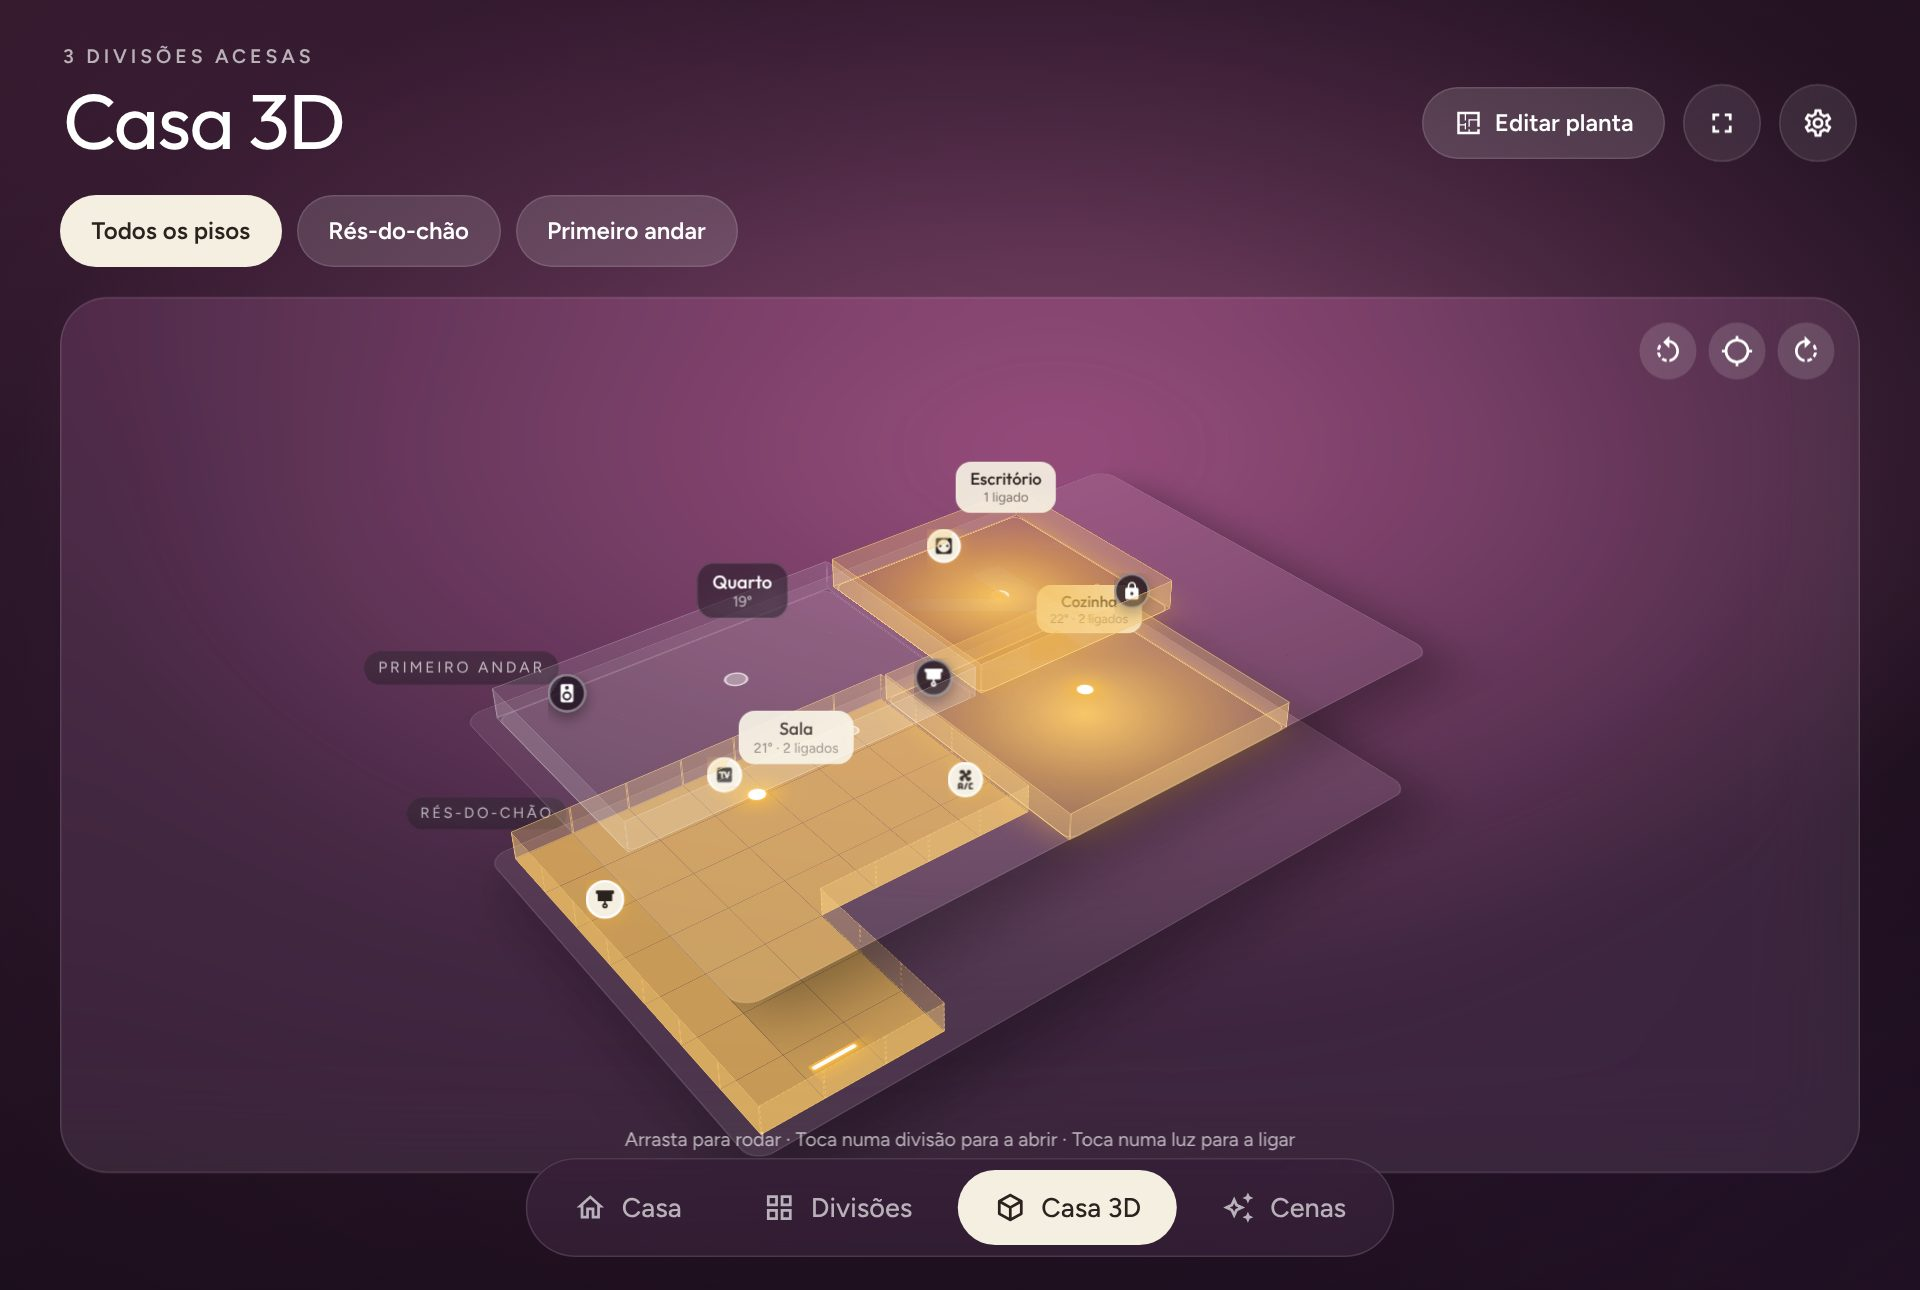
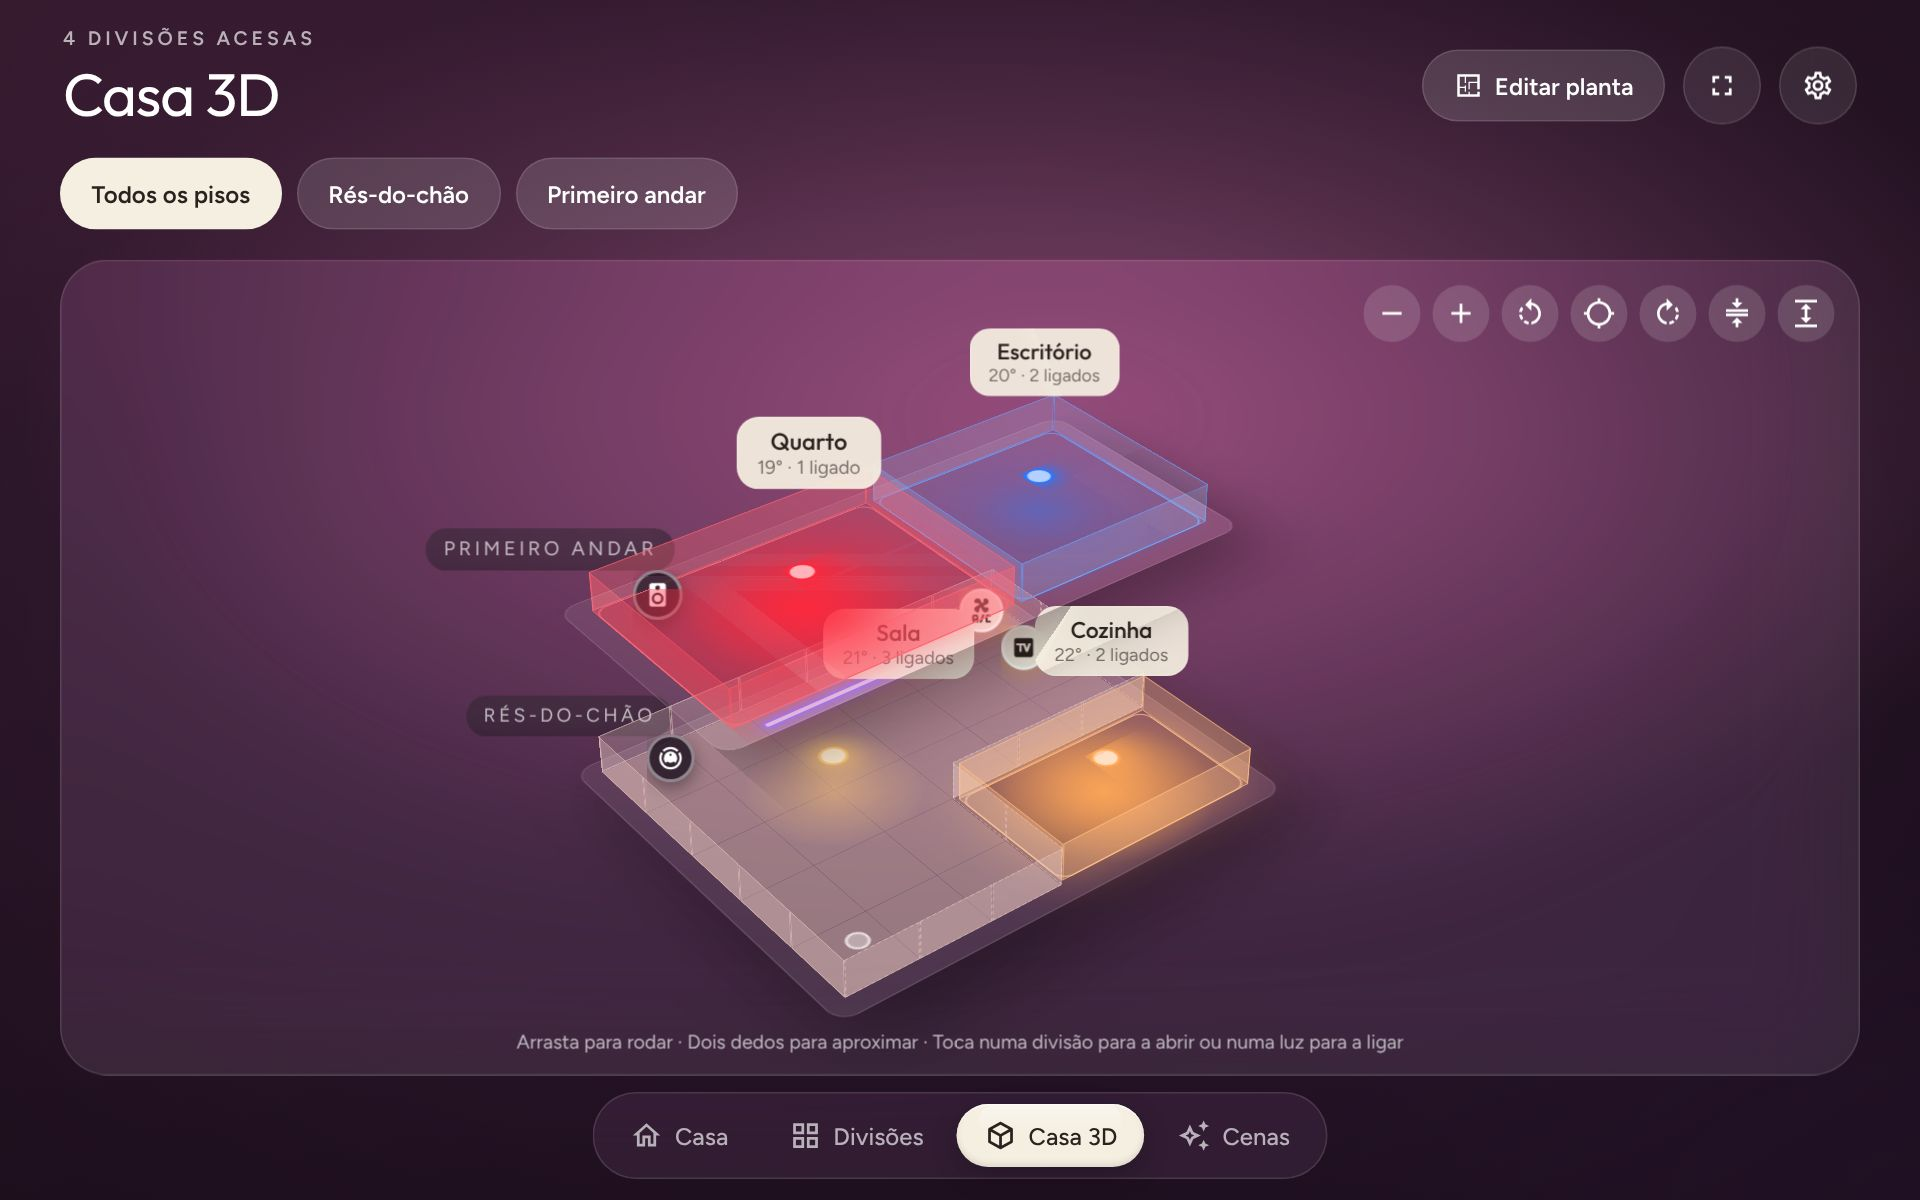
README: screenshots of the current panel; two small layout fixes (0.21.1)
- All README screenshots retaken with a sample home on a landscape
  tablet-sized screen (1280x800) and a phone: the Big clock and Two
  columns home (vivid Amber), a light background, the new room screen,
  the forecast with IPMA warnings, the Climate screen, the air
  conditioner and vacuum cards, the 3D Home, the floor-plan editor, edit
  mode, settings (backgrounds, entities, this device), the list layout in
  English and the screensaver. Both READMEs list them.
- Fixes found while taking them: the weather card's warning strip no
  longer overflows on phones; the room screen in the List layout shows
  its cards as rows again.

Claude-Session: https://claude.ai/code/session_01Ghy49Jsh1qvqB3jsfQ9BGY

diff --git a/custom_components/pine3_view/frontend/styles.js b/custom_components/pine3_view/frontend/styles.js
@@ -498,6 +498,10 @@ a.pill{color:inherit;text-decoration:none}
   .rgrid .tile .ic{width:40px;height:40px}.rgrid .tile .pw{width:44px;height:44px}.rgrid .tile .nm{font-size:17px}
   .rhead .pill{height:42px}
 }
+/* list layout: the room's cards as rows */
+.as-list .tiles.rgrid{grid-template-columns:repeat(auto-fill,minmax(300px,1fr));grid-auto-rows:auto;gap:10px}
+.as-list .rgrid .tile{min-height:0;border-radius:20px;padding:12px 16px}
+.as-list .rgrid .tile .nm{margin-top:0;padding-top:0}.as-list .rgrid .tile .tx{margin-top:0}
 @media (max-width:720px){
   .rhead{grid-template-columns:1fr auto;gap:12px;padding-top:12px}.rstat{grid-column:1/-1;grid-row:2;border:0;padding:0}
   .rhead .right .pill{display:none}.tiles.rgrid{grid-template-columns:repeat(2,minmax(0,1fr));gap:12px}
@@ -565,6 +569,7 @@ a.pill{color:inherit;text-decoration:none}
 .wxc.tall .wx-alert{padding:6px 10px}.wxc.tall{gap:10px}.wxc.tall .wx-hrs{padding:8px 0}
 .lv-yellow{--lv:#ffcc00}.lv-orange{--lv:#ff9500}.lv-red{--lv:#ff3b30}
 .wxc.wide.has-alert{flex-wrap:wrap;row-gap:10px}.wxc.wide .wx-alert{flex-basis:100%}
+.wx-alert{min-width:0;max-width:100%}.wxc.wide .wx-alert{order:5}
 .wx-al{--mdc-icon-size:18px;color:var(--lv);margin-left:2px}
 .wx-ok{display:flex;align-items:center;gap:8px;margin-top:14px;color:var(--muted);font-size:14px}.wx-ok ha-icon{--mdc-icon-size:18px;color:#30d158}
 .wx-chips{display:flex;gap:10px;flex-wrap:wrap;margin-top:12px}

diff --git a/custom_components/pine3_view/const.py b/custom_components/pine3_view/const.py
@@ -7,4 +7,4 @@ PANEL_ICON = "mdi:home-variant"
 PANEL_ELEMENT = "pine3-view-panel"
 STATIC_URL = "/pine3_view_static"
 EVENT_UPDATED = "pine3_view_updated"
-VERSION = "0.21.0"
+VERSION = "0.21.1"

diff --git a/README.pt.md b/README.pt.md
@@ -13,21 +13,25 @@ próprio desenhas. Código original, feito de raiz.
 
 ## Capturas de ecrã
 
-| Início | Casa 3D |
+| Início (Relógio grande) | Início (Duas colunas, fundo vivo Âmbar) |
 |---|---|
-| ![Início com relógio, tempo, estado da casa, cenas e divisões](docs/screenshots/home.jpg) | ![Casa 3D com dois pisos, uma sala em L e dispositivos no sítio](docs/screenshots/house-3d.jpg) |
-| **Divisão** | **Previsão do tempo** |
-| ![Vista de uma divisão com os dispositivos agrupados por tipo](docs/screenshots/room.jpg) | ![Previsão das próximas horas e dos próximos dias](docs/screenshots/forecast.jpg) |
+| ![Início com relógio grande, estado da casa, cartão do tempo com aviso do IPMA, cenas, divisões e cartões de resumo](docs/screenshots/home.jpg) | ![Início em duas colunas: relógio, o que está ligado e o tempo à esquerda, cenas e cartões à direita, no fundo Âmbar](docs/screenshots/home-columns-vivid.jpg) |
+| **Início (fundo claro)** | **Divisão** |
+| ![Início no fundo claro Linho](docs/screenshots/home-light.jpg) | ![Uma divisão com o estado, acender/apagar luzes, filtros por categoria e uma grelha de cartões](docs/screenshots/room.jpg) |
+| **Previsão do tempo e avisos do IPMA** | **Ecrã Clima** |
+| ![Previsão com avisos do IPMA, UV e risco de incêndio à esquerda e horas e dias à direita](docs/screenshots/forecast.jpg) | ![Todos os ares condicionados com controlos rápidos e a temperatura de cada divisão](docs/screenshots/climate.jpg) |
+| **Cartão do ar condicionado** | **Cartão do aspirador robô** |
+| ![Cartão de clima em duas colunas: anel da temperatura e modos](docs/screenshots/climate-card.jpg) | ![Cartão do aspirador com rotinas, botões, potência, divisões a limpar e controlos](docs/screenshots/vacuum.jpg) |
+| **Casa 3D** | **Casa 3D, rés-do-chão** |
+| ![Casa 3D com dois pisos, uma sala em L, luzes coloridas e dispositivos no sítio](docs/screenshots/house-3d.jpg) | ![Casa 3D só com o rés-do-chão](docs/screenshots/house-3d-ground-floor.jpg) |
 | **Planta: formas livres** | **Planta: dispositivos** |
-| ![Editor da planta a pintar quadrículas para uma sala em L](docs/screenshots/plan-shapes.jpg) | ![Editor da planta a pôr dispositivos e escolher o tipo](docs/screenshots/plan-devices.jpg) |
-| **Casa 3D, rés-do-chão** | **Modo de edição** |
-| ![Casa 3D só com o rés-do-chão](docs/screenshots/house-3d-ground-floor.jpg) | ![Modo de edição com cartões para esconder e duplicar](docs/screenshots/edit-mode.jpg) |
-| **Definições: aparência** | **Definições: entidades** |
-| ![Cores dos cartões, cor de destaque, fundo, idioma e disposição](docs/screenshots/settings-appearance.jpg) | ![Escolher que entidades aparecem](docs/screenshots/settings-entities.jpg) |
-| **Este dispositivo (ecrã inteiro)** | **Lista, em inglês** |
-| ![Opções por dispositivo: esconder a barra lateral, manter o ecrã ligado, ecrã inteiro](docs/screenshots/settings-device.jpg) | ![Disposição em lista com o painel em inglês](docs/screenshots/list-english.jpg) |
-| **Ecrã de descanso** | |
-| ![Relógio grande do ecrã de descanso](docs/screenshots/screensaver.jpg) | |
+| ![Editor da planta a pintar quadrículas para uma sala em L](docs/screenshots/plan-shapes.jpg) | ![Editor da planta a pôr dispositivos](docs/screenshots/plan-devices.jpg) |
+| **Modo de edição** | **Definições: aparência** |
+| ![Modo de edição com cartões para esconder, duplicar e reordenar](docs/screenshots/edit-mode.jpg) | ![Fundos vivos, escuros e claros, fixos ou automáticos de dia e de noite](docs/screenshots/settings-appearance.jpg) |
+| **Definições: entidades** | **Este dispositivo** |
+| ![Escolher que entidades aparecem](docs/screenshots/settings-entities.jpg) | ![Opções por dispositivo: vista da Casa 3D, efeitos leves, animações, barra lateral, ecrã ligado, ecrã inteiro](docs/screenshots/settings-device.jpg) |
+| **Lista, em inglês** | **Ecrã de descanso** |
+| ![Uma divisão em lista com o painel em inglês](docs/screenshots/list-english.jpg) | ![Relógio grande do ecrã de descanso](docs/screenshots/screensaver.jpg) |
 
 No telemóvel:
 
@@ -35,7 +39,7 @@ No telemóvel:
 |---|---|---|
 | ![Início no telemóvel](docs/screenshots/phone-home.jpg) | ![Folha de detalhe com luminosidade e cores](docs/screenshots/phone-light.jpg) | ![Casa 3D no telemóvel](docs/screenshots/phone-3d.jpg) |
 
-*Capturas feitas com uma casa de exemplo.*
+*Capturas feitas com uma casa de exemplo, num ecrã do tamanho de um tablet deitado; a maioria mostra o painel em português (o inglês está a um toque nas Definições).*
 
 ## Instalar com HACS
 1. No Home Assistant abre **HACS** → menu **⋮** → **Repositórios personalizados**.

diff --git a/README.md b/README.md
@@ -13,21 +13,25 @@ your house that you can draw yourself. Original code, built from scratch.
 
 ## Screenshots
 
-| Home | 3D Home |
+| Home (Big clock) | Home (Two columns, vivid Amber background) |
 |---|---|
-| ![Home screen with clock, weather, home status, scenes and rooms](docs/screenshots/home.jpg) | ![3D Home with two floors, an L-shaped living room and devices in place](docs/screenshots/house-3d.jpg) |
-| **Room** | **Weather forecast** |
-| ![A room with its devices grouped by type](docs/screenshots/room.jpg) | ![Forecast for the next hours and days](docs/screenshots/forecast.jpg) |
+| ![Home screen with a big clock, home status, weather card with an IPMA warning, scenes, rooms and summary cards](docs/screenshots/home.jpg) | ![Two-column home: clock, what is on and weather on the left, scenes and cards on the right, on the Amber background](docs/screenshots/home-columns-vivid.jpg) |
+| **Home (light background)** | **Room** |
+| ![Home screen on the light Linen background](docs/screenshots/home-light.jpg) | ![A room with its status, lights on/off, category chips and one grid of cards](docs/screenshots/room.jpg) |
+| **Weather forecast and IPMA warnings** | **Climate screen** |
+| ![Forecast with IPMA warnings, UV and fire risk on the left and hours and days on the right](docs/screenshots/forecast.jpg) | ![Every air conditioner with quick controls and the temperature of each room](docs/screenshots/climate.jpg) |
+| **Air conditioner card** | **Robot vacuum card** |
+| ![Climate card in two columns: target ring and modes](docs/screenshots/climate-card.jpg) | ![Vacuum card with routines, buttons, suction, rooms to clean and controls](docs/screenshots/vacuum.jpg) |
+| **3D Home** | **3D Home, ground floor** |
+| ![3D Home with two floors, an L-shaped living room, coloured lights and devices in place](docs/screenshots/house-3d.jpg) | ![3D Home showing only the ground floor](docs/screenshots/house-3d-ground-floor.jpg) |
 | **Floor plan: free shapes** | **Floor plan: devices** |
-| ![Floor-plan editor painting cells for an L-shaped room](docs/screenshots/plan-shapes.jpg) | ![Floor-plan editor placing devices and choosing their type](docs/screenshots/plan-devices.jpg) |
-| **3D Home, ground floor** | **Edit mode** |
-| ![3D Home showing only the ground floor](docs/screenshots/house-3d-ground-floor.jpg) | ![Edit mode with cards to hide and resize](docs/screenshots/edit-mode.jpg) |
-| **Settings: appearance** | **Settings: entities** |
-| ![Card colour, highlight colour, background, language and layout](docs/screenshots/settings-appearance.jpg) | ![Choosing which entities are shown](docs/screenshots/settings-entities.jpg) |
-| **This device (full screen)** | **List layout, in English** |
-| ![Per-device options: hide the sidebar, keep the screen on, full screen](docs/screenshots/settings-device.jpg) | ![List layout with the panel in English](docs/screenshots/list-english.jpg) |
-| **Screensaver** | |
-| ![Large screensaver clock](docs/screenshots/screensaver.jpg) | |
+| ![Floor-plan editor painting cells for an L-shaped room](docs/screenshots/plan-shapes.jpg) | ![Floor-plan editor placing devices](docs/screenshots/plan-devices.jpg) |
+| **Edit mode** | **Settings: appearance** |
+| ![Edit mode with cards to hide, resize and reorder](docs/screenshots/edit-mode.jpg) | ![Vivid, dark and light backgrounds, fixed or automatic by day and night](docs/screenshots/settings-appearance.jpg) |
+| **Settings: entities** | **This device** |
+| ![Choosing which entities are shown](docs/screenshots/settings-entities.jpg) | ![Per-device options: 3D Home view, light effects, animations, sidebar, screen on, full screen](docs/screenshots/settings-device.jpg) |
+| **List layout, in English** | **Screensaver** |
+| ![A room in the list layout with the panel in English](docs/screenshots/list-english.jpg) | ![Large screensaver clock](docs/screenshots/screensaver.jpg) |
 
 On a phone:
 
@@ -35,7 +39,7 @@ On a phone:
 |---|---|---|
 | ![Home screen on a phone](docs/screenshots/phone-home.jpg) | ![Detail sheet with brightness and colours](docs/screenshots/phone-light.jpg) | ![3D Home on a phone](docs/screenshots/phone-3d.jpg) |
 
-*Screenshots taken with a sample home; most show the Portuguese interface (English is one tap away in Settings).*
+*Screenshots taken with a sample home on a landscape tablet-sized screen; most show the Portuguese interface (English is one tap away in Settings).*
 
 ## Install with HACS
 1. In Home Assistant open **HACS** → **⋮** menu → **Custom repositories**.
